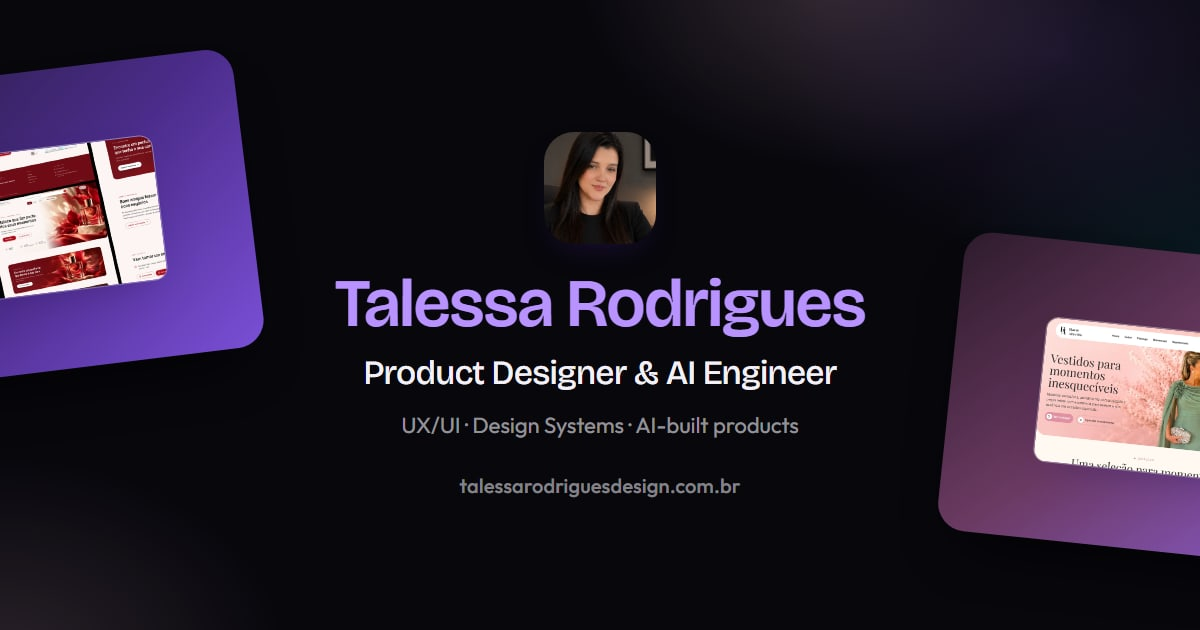
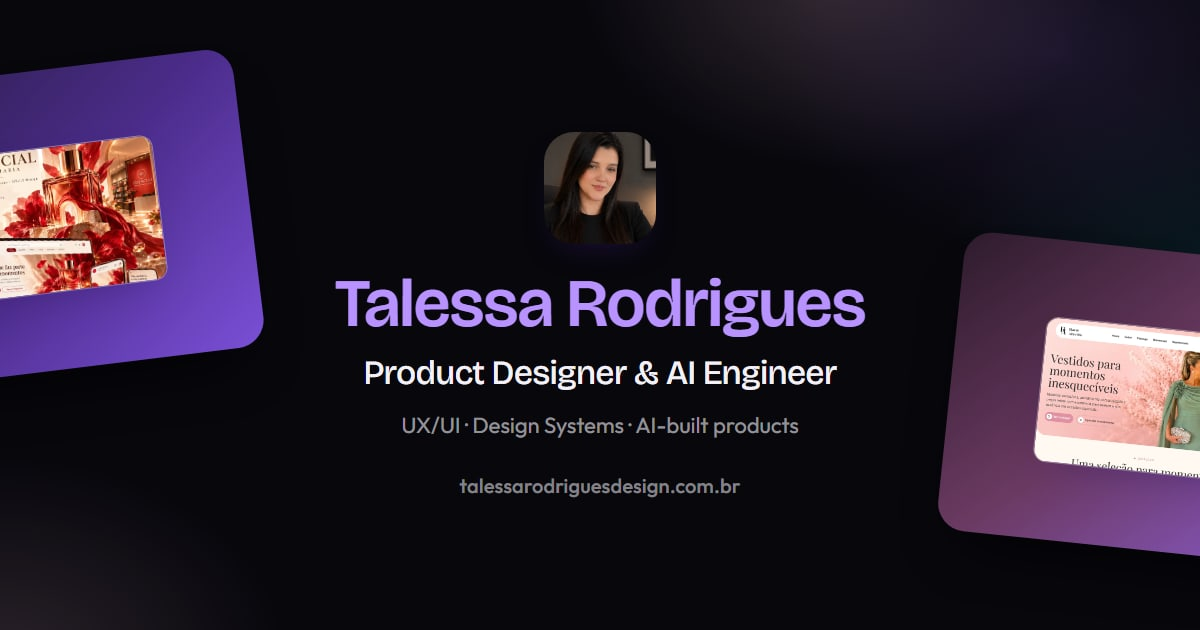
fix: home alinhada numa largura só e capa nova da Essencial
Em telas largas a grade ocupava a tela toda, mas a apresentação e o
rodapé continuavam presos na coluna de 1152px, com dois alinhamentos
diferentes. Agora a home inteira usa a mesma largura (tela menos uma
margem que cresce com ela, teto de 1880px); o Sobre segue na coluna
centralizada. Conferido de 1025 a 2560px, sem rolagem lateral.

A Essencial Perfumaria ganha a capa nova (recorte do pôster com o logo,
o frasco e as telas).

Changed region(s): [[0.0, 0.2111, 0.1542, 0.4825]]

diff --git a/src/components/Site/Site.module.css b/src/components/Site/Site.module.css
@@ -5,6 +5,11 @@
 .site {
   --site-width: 1152px;
   --site-gutter: 48px;
+  /* Largura da home: a tela toda menos a barra de rolagem (--sbw, medida
+     pelo Site) e uma margem que cresce com a tela, com teto em 1880px para
+     não esticar demais em monitores muito largos. */
+  --gutter: clamp(20px, 2.6vw, 48px);
+  --site-wide: min(100vw - var(--sbw, 0px) - var(--gutter) * 2, 1880px);
   position: relative;
   min-height: 100vh;
   background: var(--bg-light);
@@ -32,7 +37,7 @@
 
 .main {
   position: relative;
-  width: min(var(--site-width), 100% - var(--site-gutter) * 2);
+  width: var(--site-wide);
   margin: 0 auto;
   padding-top: 112px;
 }
@@ -184,9 +189,7 @@
 /* ── Home: grade de cases ────────────────────────────────── */
 
 .work {
-  --bleed: min(100vw - var(--sbw, 0px) - 40px, 1880px);
   margin-top: 72px;
-  margin-inline: calc((100% - var(--bleed)) / 2);
   /* A cápsula fixa cobre o topo quando o link "Projetos" rola até aqui. */
   scroll-margin-top: 88px;
 }
@@ -370,6 +373,8 @@
 /* As seções do Sobre foram desenhadas pro modal, com o próprio respiro
    lateral. Aqui elas só ganham o espaço entre uma e outra. */
 .aboutStack {
+  width: min(var(--site-width), 100%);
+  margin-inline: auto;
   display: flex;
   flex-direction: column;
   gap: 24px;
@@ -382,7 +387,7 @@
 
 .footer {
   position: relative;
-  width: min(var(--site-width), 100% - var(--site-gutter) * 2);
+  width: var(--site-wide);
   margin: 120px auto 0;
   padding: 56px 0 32px;
   border-top: 1px solid var(--site-line);
